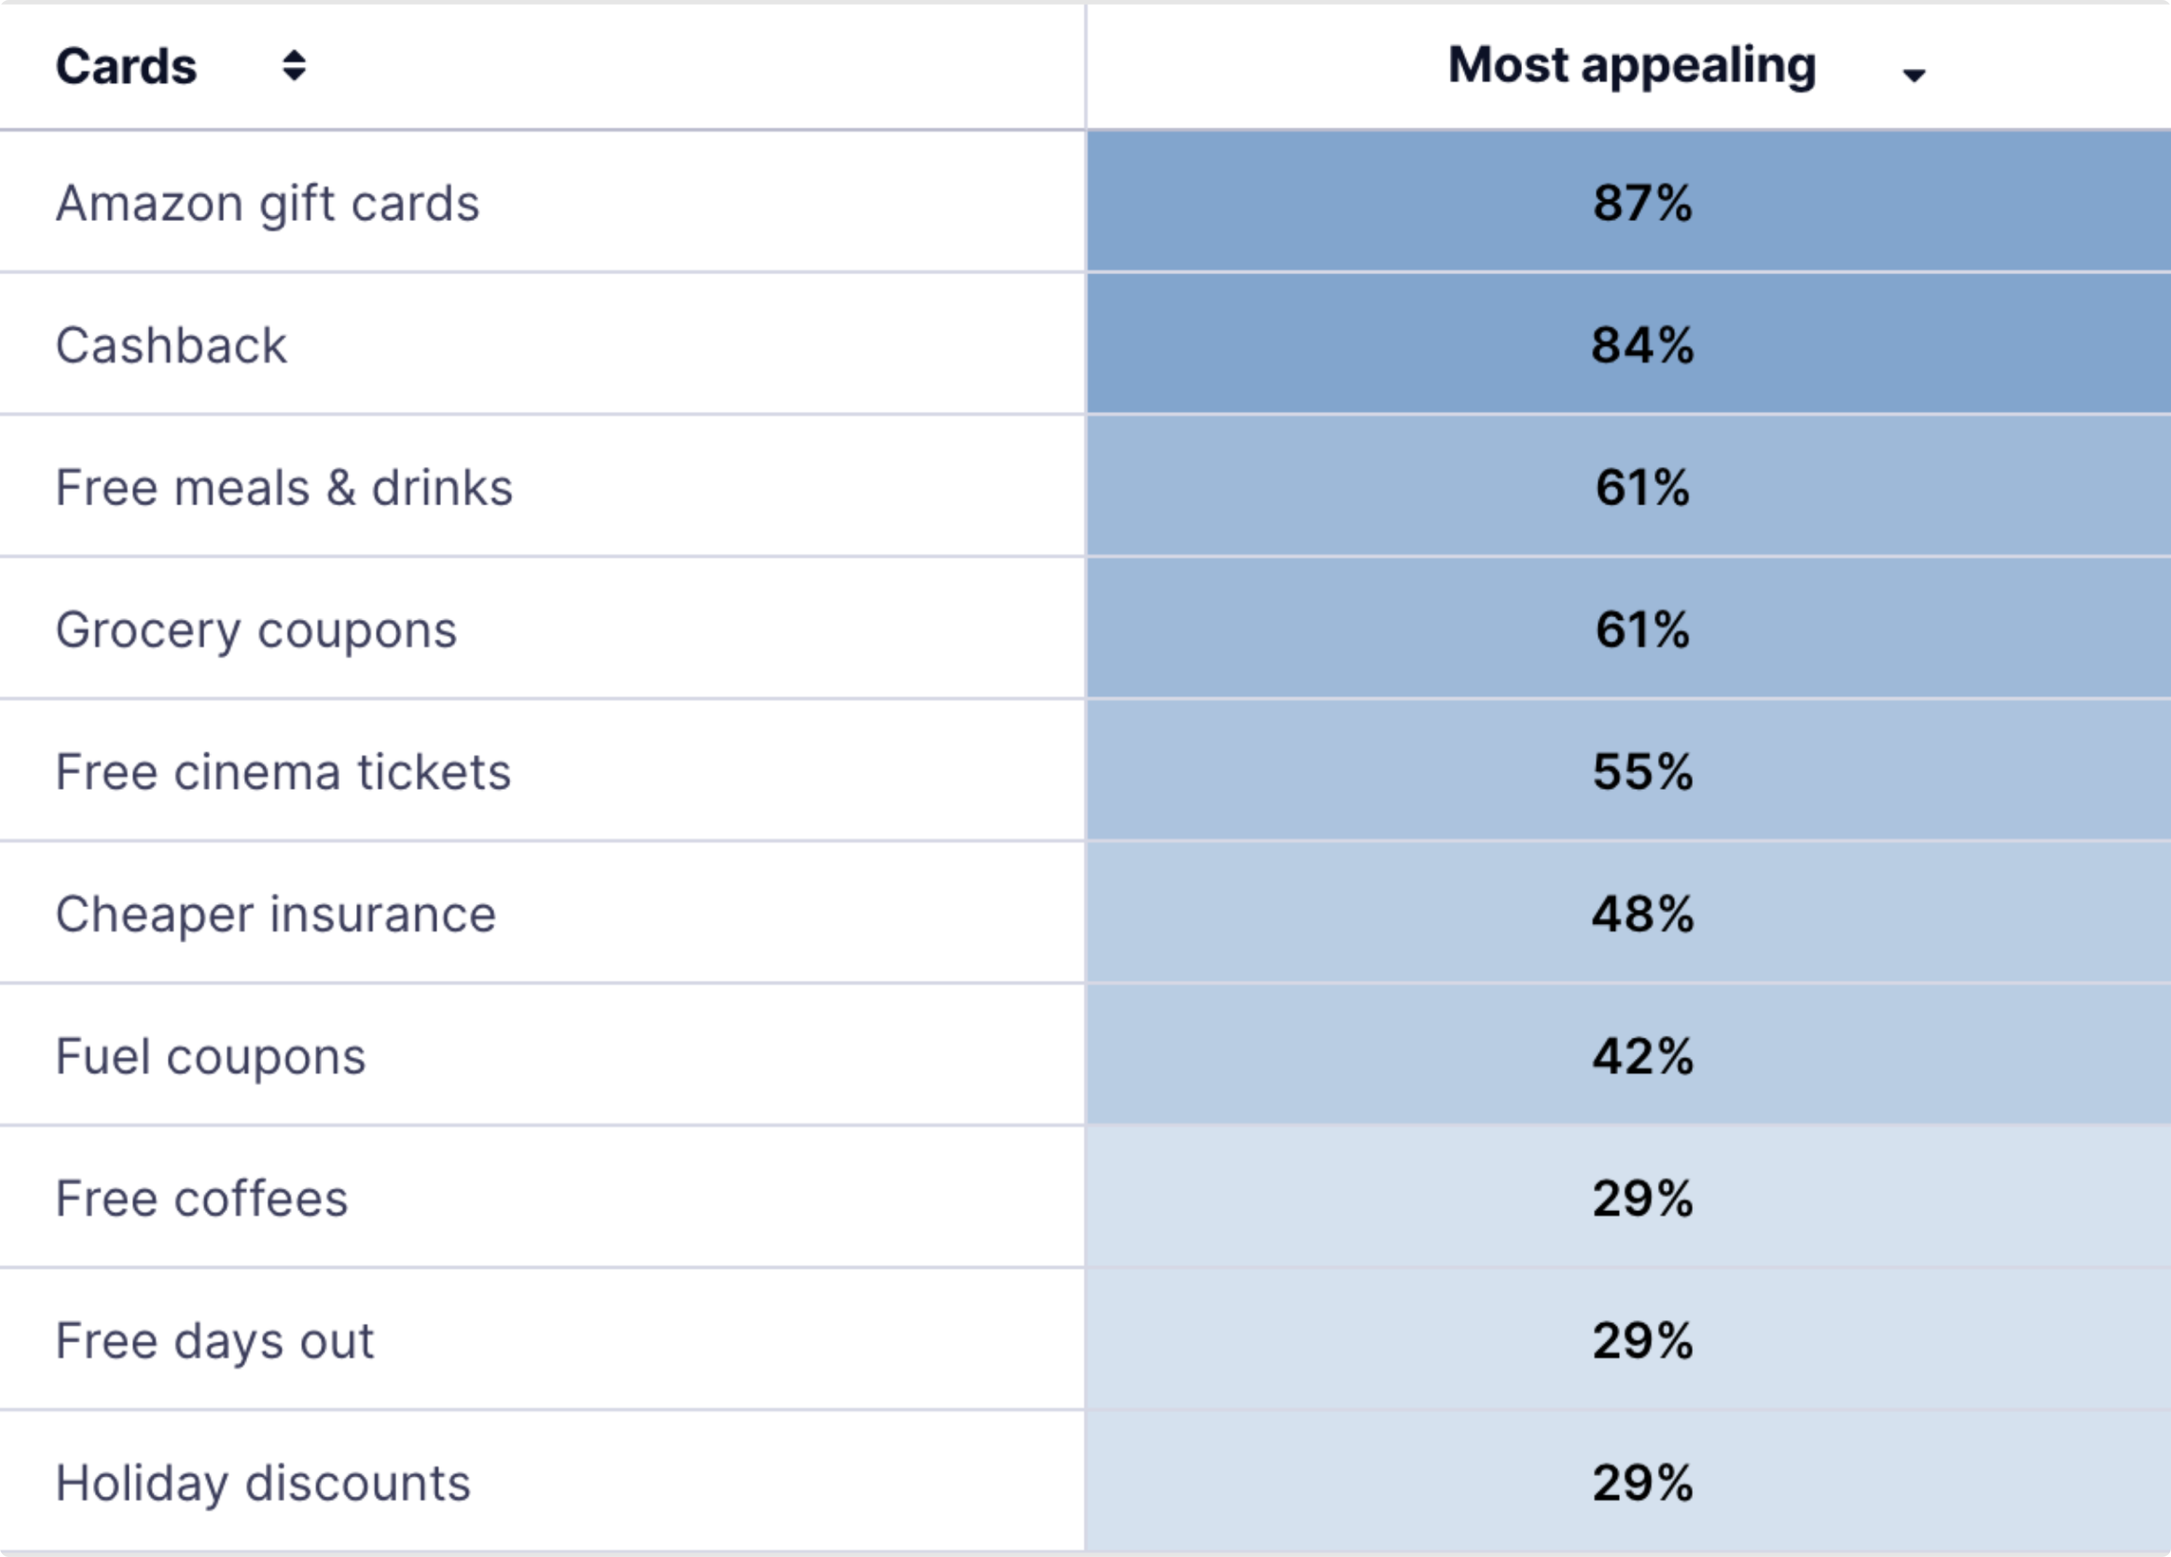
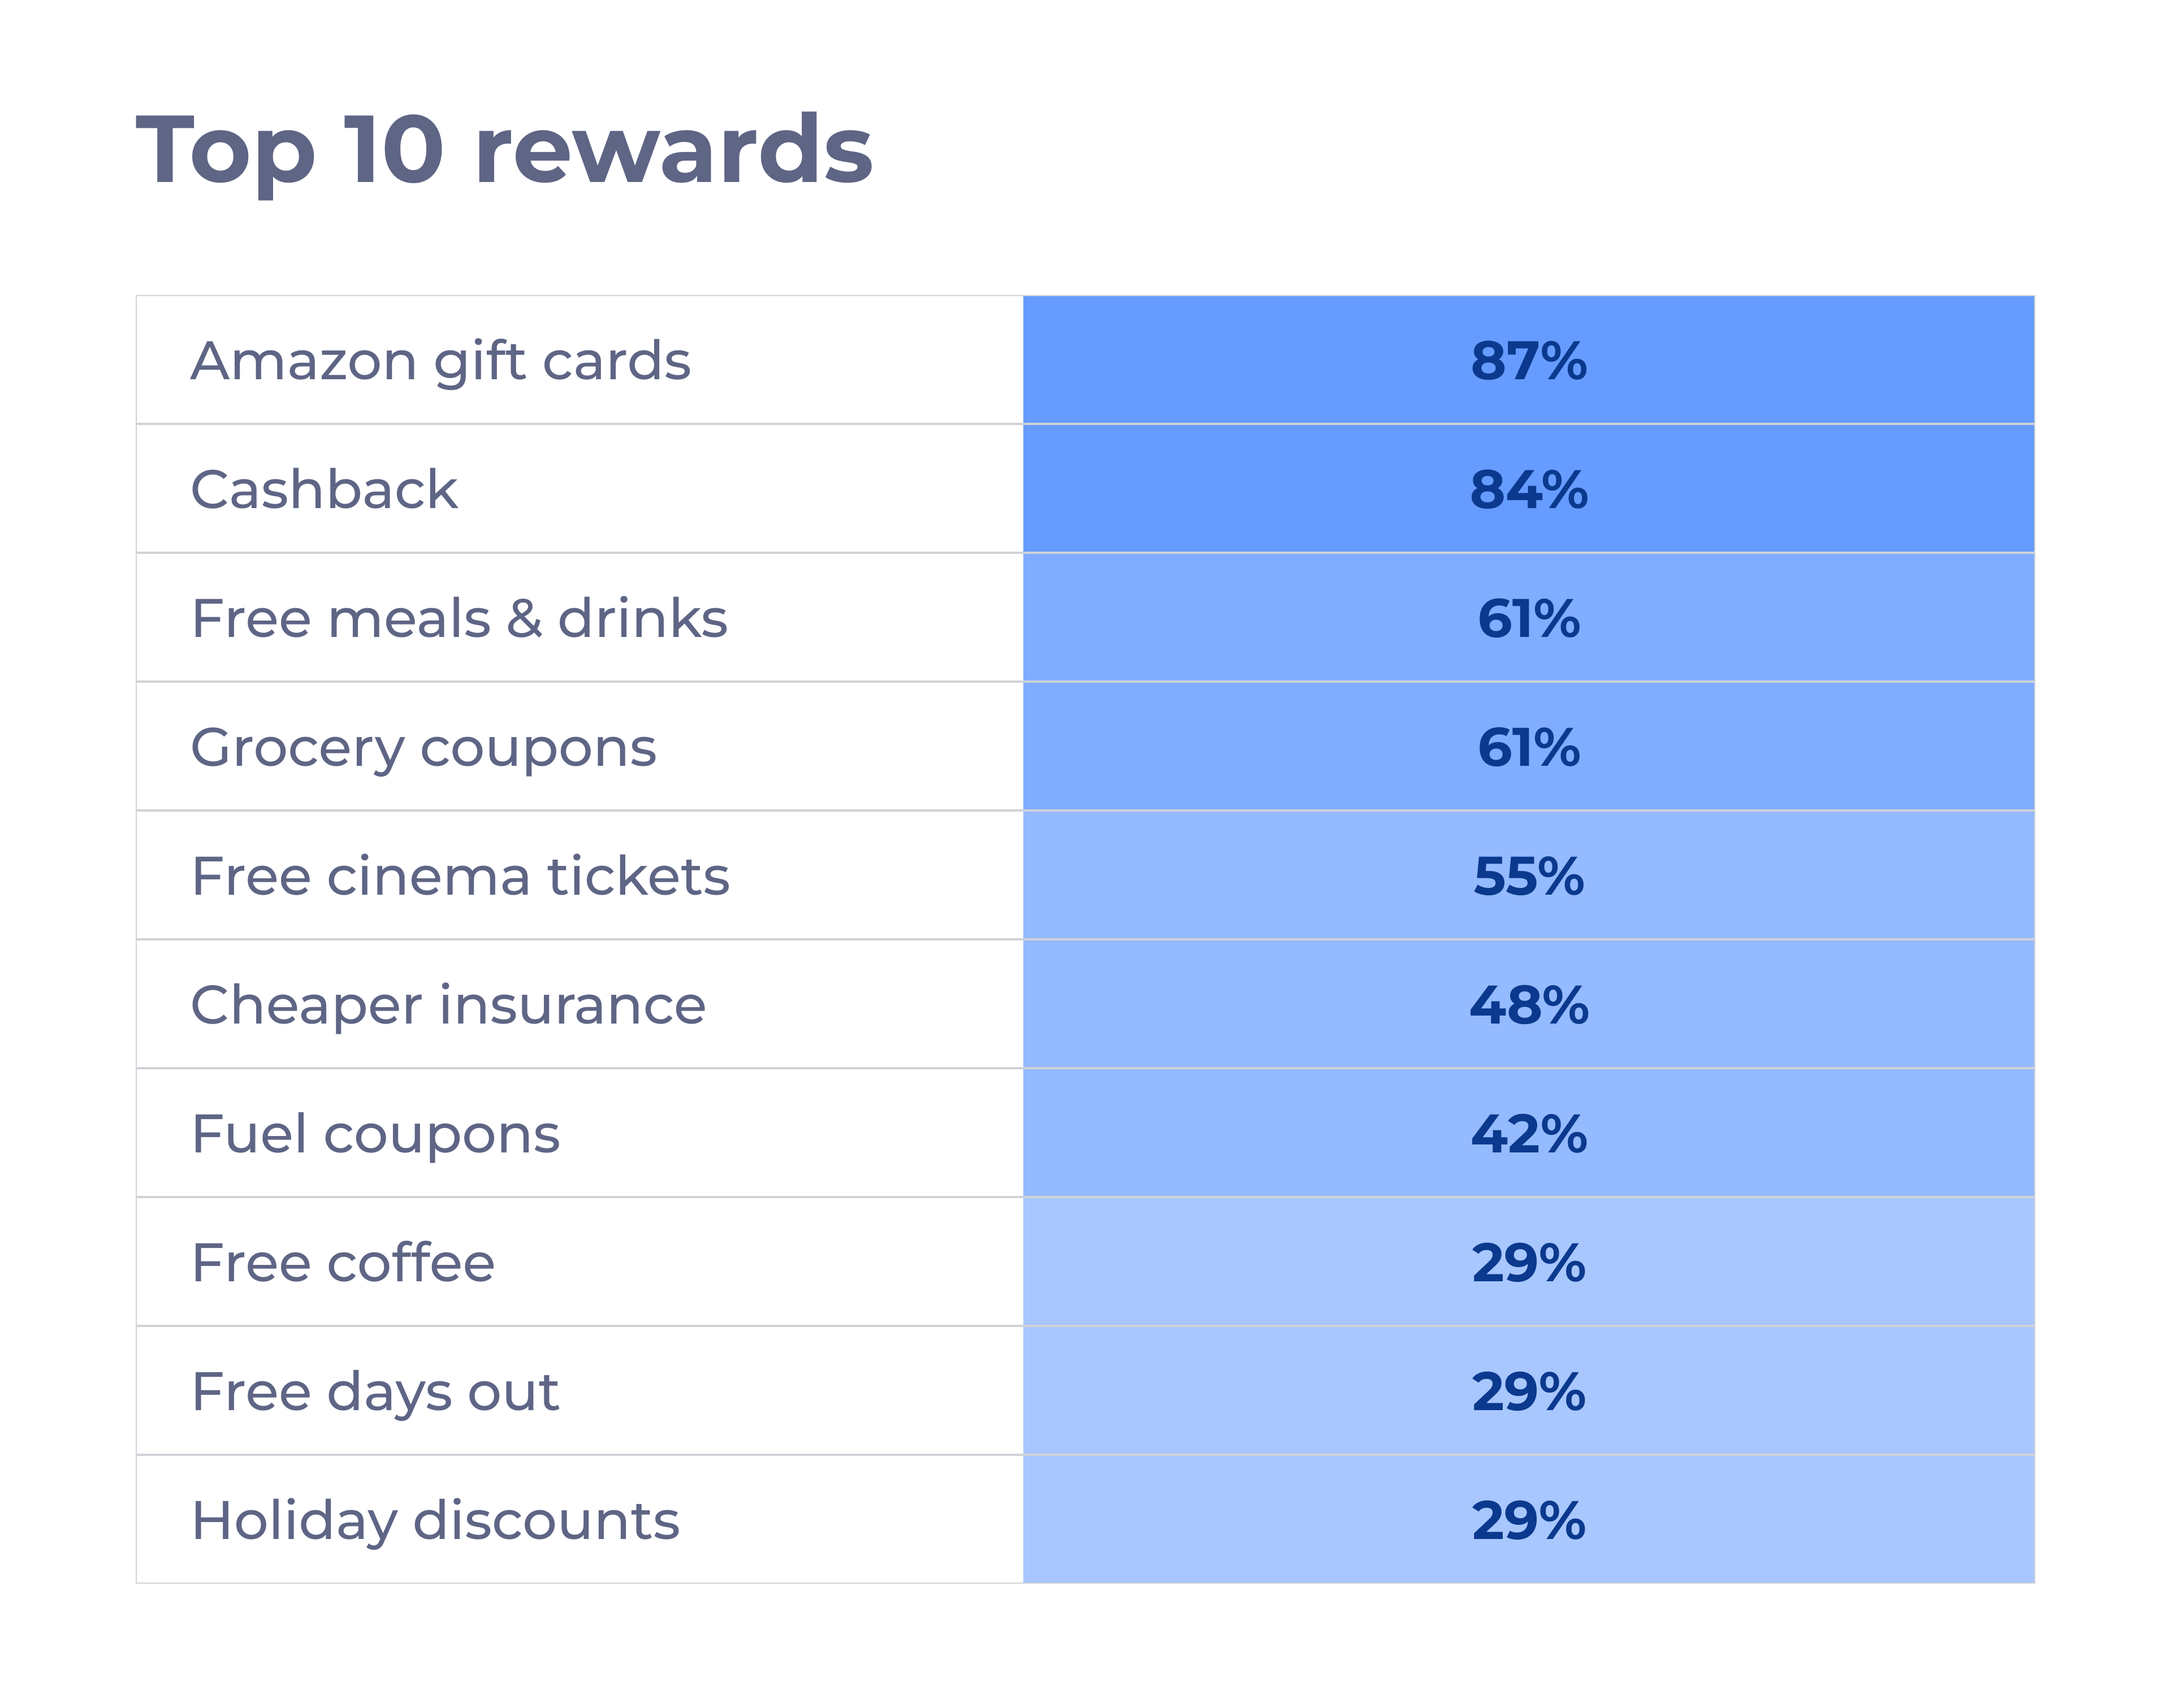
content update

diff --git a/super_save_club.html b/super_save_club.html
@@ -93,7 +93,7 @@
                 <h2>Stakeholder Workshop</h2>
                 <h3>Defining the core proposition</h3>
                 <p>The London office called and I had to meet Senior Stakeholders to define some core elements of the proposition.<br><br>
-                    I opted for a structured workshop where we wrote down our expectations and assumptions. The main topics where:
+                    I opted for a structured workshop where we wrote down our expectations and assumptions. The biggest topics were:
                     <ul>
                         <li>How do users find out about the SuperSaveClub?</li>
                         <li>Where can users access it?</li>                     
@@ -131,7 +131,6 @@
                     <li>Low awareness on reward programs in the Price Comparison Websites (PCW) world</li> 
                     <li>The few participants who knew about PCW reward programs were mostly aware of free cinema tickets</li> 
                 </ul>
-                <p><strong>Top 10 rewards:</strong><br><br>
                     <img src="images/SSC/card_sort.png" width="100%" height="100%" alt="Top 10 rewards">
             </section>
 
